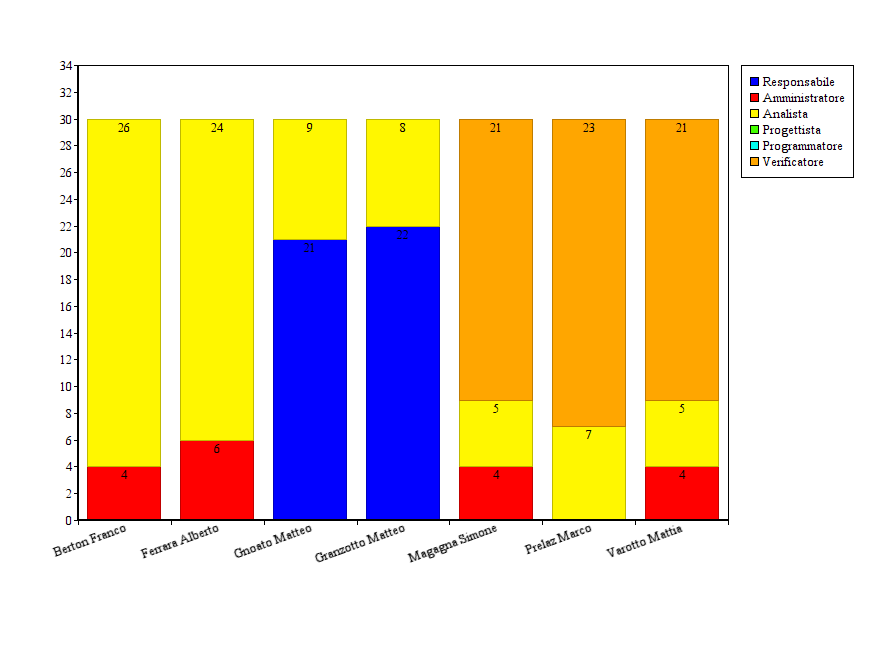
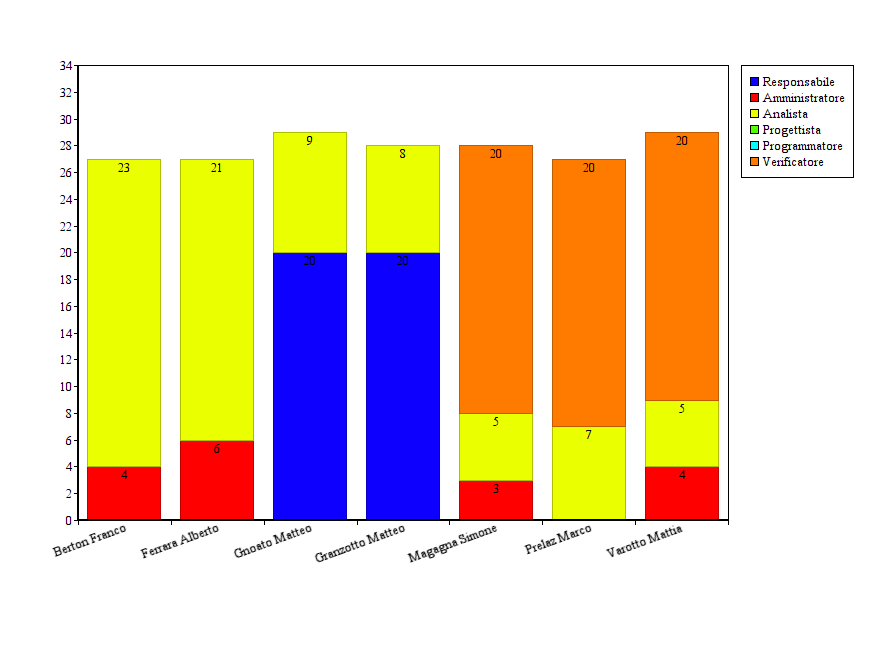
Aggiunto Analisi dei Requisiti in dettaglio
modificate anche le tabelle inerenti alle modifiche

Changed region(s): [[0.0916, 0.1846, 0.8247, 0.6769], [0.5192, 0.7077, 0.6109, 0.7692]]

diff --git a/RR/Piano di Progetto/sezioni/CalendarioAttivita.tex b/RR/Piano di Progetto/sezioni/CalendarioAttivita.tex
@@ -2,20 +2,20 @@
 In questa sezione vengono presentati i quadri riassuntivi ed i grafici dell'impegno dei ruoli nei diversi periodi. Infine vengono mostrate le incidenze dei vari ruoli nell'intero progetto.
 
 \subsection{Analisi dei Requisiti}
-Le ore impiegate in questo periodo sono 210 e vengono ripartite in:
+Le ore impiegate in questo periodo sono 195 e vengono ripartite in:
 \begin{table}[H]
 	\begin{center}
 		\begin{tabular}{|c|c|}
 			\hline
 			\textbf{Ruolo}	& \textbf{Ore} \\
 			\hline
-			\Res	&	43	\\
+			\Res	&	40	\\
 			\hline
-			\Amm	&	18	\\
+			\Amm	&	17	\\
 			\hline
-			\Ana		&	84	\\
+			\Ana	&	78	\\
 			\hline
-			\Ver	&	65	\\
+			\Ver	&	60	\\
 			\hline
 		\end{tabular}
 	\end{center}
@@ -24,8 +24,36 @@ Le ore impiegate in questo periodo sono 210 e vengono ripartite in:
 
 \begin{figure}[H]
 	\centering
-	\includegraphics[scale=0.3]{immagini/Grafi/OreRuoloRR}
+	\includegraphics[scale=0.5]{immagini/Grafi/OreRuoloRR}
 	\caption{Incidenza ore per ruolo, Analisi dei Requisiti}
+\end{figure}
+
+\subsection{Analisi dei Requisiti in Dettaglio}
+Le ore impiegate in questo periodo sono 15 e vengono ripartite in:
+
+\begin{table}[H]
+	\begin{center}
+		\begin{tabular}{|c|c|}
+			\hline
+			\textbf{Ruolo}	& \textbf{Ore} \\
+			\hline
+			\Res	&	3	\\
+			\hline
+			\Amm	&	1	\\
+			\hline
+			\Ana	&	6	\\
+			\hline
+			\Ver	&	5	\\
+			\hline
+		\end{tabular}
+	\end{center}
+	\caption{Ore a ruolo, Analisi dei Requisiti}
+\end{table}
+
+\begin{figure}[H]
+	\centering
+	\includegraphics[scale=0.5]{immagini/Grafi/OreRuoloRRD}
+	\caption{Incidenza ore per ruolo, Analisi dei Requisiti in Dettaglio}
 \end{figure}
 
 \subsection{Progettazione Architetturale}
@@ -51,7 +79,7 @@ Le ore totali impiegate in questo periodo sono 225 e vengono ripartite in:
 
 \begin{figure}[H]
 	\centering
-	\includegraphics[scale=0.3]{immagini/Grafi/OreRuoloPA}
+	\includegraphics[scale=0.5]{immagini/Grafi/OreRuoloPA}
 	\caption{Incidenza ore per ruolo, Progettazione Architetturale}
 \end{figure}
 
@@ -79,7 +107,7 @@ Le ore impiegate in questo periodo sono 140 e vengono ripartite in:
 
 \begin{figure}[H]
 	\centering
-	\includegraphics[scale=0.3]{immagini/Grafi/OreRuoloPD}
+	\includegraphics[scale=0.5]{immagini/Grafi/OreRuoloPD}
 	\caption{Incidenza ore per ruolo, Progettazione in Dettaglio}
 \end{figure}
 
@@ -108,7 +136,7 @@ Le ore impiegate in questo periodo sono 248 e vengono ripartite in:
 
 \begin{figure}[H]
 	\centering
-	\includegraphics[scale=0.3]{immagini/Grafi/OreRuoloCod}
+	\includegraphics[scale=0.5]{immagini/Grafi/OreRuoloCod}
 	\caption{Incidenza ore per ruolo, Codifica}
 \end{figure}
 
@@ -133,7 +161,7 @@ Le ore totali in questo periodo sono 122 e vengono ripartite in:
 
 \begin{figure}[H]
 	\centering
-	\includegraphics[scale=0.3]{immagini/Grafi/OreRuoloVerifica}
+	\includegraphics[scale=0.5]{immagini/Grafi/OreRuoloVerifica}
 	\caption{Incidenza ore per ruolo, Verifica e Validazione}
 \end{figure}
 
@@ -164,12 +192,12 @@ Le ore totali del progetto sono 945, di cui 735 remunerabili, così ripartite:
 
 \begin{figure}[H]
 	\centering
-	\includegraphics[scale=0.3]{immagini/Grafi/OreRuoloOreTotali}
+	\includegraphics[scale=0.5]{immagini/Grafi/OreRuoloOreTotali}
 	\caption{Incidenza ore per ruolo, Ore Totali}
 \end{figure}
 
 \begin{figure}[H]
 	\centering
-	\includegraphics[scale=0.3]{immagini/Grafi/OreRuoloRendicontabili}
+	\includegraphics[scale=0.5]{immagini/Grafi/OreRuoloRendicontabili}
 	\caption{Incidenza ore per ruolo, Ore Rendicontate}
 \end{figure}

diff --git a/RR/Piano di Progetto/sezioni/SuddivisioneDelLavoro.tex b/RR/Piano di Progetto/sezioni/SuddivisioneDelLavoro.tex
@@ -10,29 +10,64 @@ Nell'attività di \textit{\AdR} ciascun componente dovrà rivestire i seguenti r
 			\textbf{Nominativo} & \multicolumn{6}{c|}{\textbf{Ore per ruolo}} & \textbf{Ore totali} \\
 			& \textbf{Re} & \textbf{Am} & \textbf{An} & \textbf{Pj} & \textbf{Pr} & \textbf{Ve} & \\
 			\hline
-			\FB	&		&	4	&	26	&		&		&		&	30	\\
+			\FB	&		&	4	&	23	&		&		&		&	27	\\
 			\hline
-			\AF		&		&	6	&	24	&	 	&		&		& 	30	\\
+			\AF		&		&	6	&	21	&	 	&		&		& 	27	\\
 			\hline
-			\GN		&	21	&		&	9	&		&		&		&	30	\\
+			\GN		&	20	&		&	9	&		&		&		&	29	\\
 			\hline						
-			\GR	&	22	&	 	&	8 	&		&	 	& 		&	30	\\
+			\GR	&	20	&	 	&	8 	&		&	 	& 		&	28	\\
 			\hline
-			\SM 		&		&	4	&	5	&		&		& 	21	&	30	\\
+			\SM 		&		&	3	&	5	&		&		& 	20	&	28	\\
 			\hline
-			\MP		& 		&		&	7	&		&		&	23	&	30	\\
+			\MP		& 		&		&	7	&		&		&	20	&	27	\\
 			\hline						
-			\MV 		&		&	4	&	5	&		&		&	21	& 	30	\\
+			\MV 		&		&	4	&	5	&		&		&	20	& 	29	\\
 			\hline
 		\end{tabular}
 	\end{center}
-	\caption{Ore per componente, Analisi dei Requisiti}
+	\caption{Ore per componente, \AdR}
 \end{table}
 
 \begin{figure}[H]
 	\centering
 	\includegraphics[scale=0.4]{immagini/Grafi/GrafoAR}
 	\caption{Incidenza ore per ruolo, Analisi dei Requisiti}
+\end{figure}
+
+\subsection{Analisi dei Requisiti in Dettaglio}
+Nell'attività di \textit{\AD} ciascun componente dovrà rivestire i seguenti ruoli:
+
+\begin{table}[H]
+	\begin{center}
+		\begin{tabular}{|c|c|c|c|c|c|c|c|}
+			\hline
+			\textbf{Nominativo} & \multicolumn{6}{c|}{\textbf{Ore per ruolo}} & \textbf{Ore totali} \\
+			& \textbf{Re} & \textbf{Am} & \textbf{An} & \textbf{Pj} & \textbf{Pr} & \textbf{Ve} & \\
+			\hline
+			\FB	&		&		&	3	&		&		&		&	3	\\
+			\hline
+			\AF		&		&		&	3	&	 	&		&		& 	3	\\
+			\hline
+			\GN		&	1	&		&		&		&		&		&	1	\\
+			\hline						
+			\GR	&	2	&	 	&	 	&		&	 	& 		&	2	\\
+			\hline
+			\SM 		&		&	1	&		&		&		& 	1	&	2	\\
+			\hline
+			\MP		& 		&		&		&		&		&	3	&	3	\\
+			\hline						
+			\MV 		&		&		&		&		&		&	1	& 	1	\\
+			\hline
+		\end{tabular}
+	\end{center}
+	\caption{Ore per componente, \AD}
+\end{table}
+
+\begin{figure}[H]
+	\centering
+	\includegraphics[scale=0.4]{immagini/Grafi/GrafoARD}
+	\caption{Incidenza ore per ruolo, \AD}
 \end{figure}
 
 \subsection{Progettazione Architetturale}

diff --git a/RR/Piano di Progetto/sezioni/ProspettoEconomico.tex b/RR/Piano di Progetto/sezioni/ProspettoEconomico.tex
@@ -187,5 +187,5 @@ Le ore totali, previste per la realizzazione dell'intero \textit{progetto\ped{G}
 \end{figure}
 
 \subsubsection{Conclusioni}
-Il costo totale del \textit{progetto\ped{G}}, indicato nella tabella 18, viene arrotondato a \textbf{€ 13500}.\\
+Il costo totale del \textit{progetto\ped{G}}, indicato nella tabella 20, viene arrotondato a \textbf{€ 13500}.\\
 
